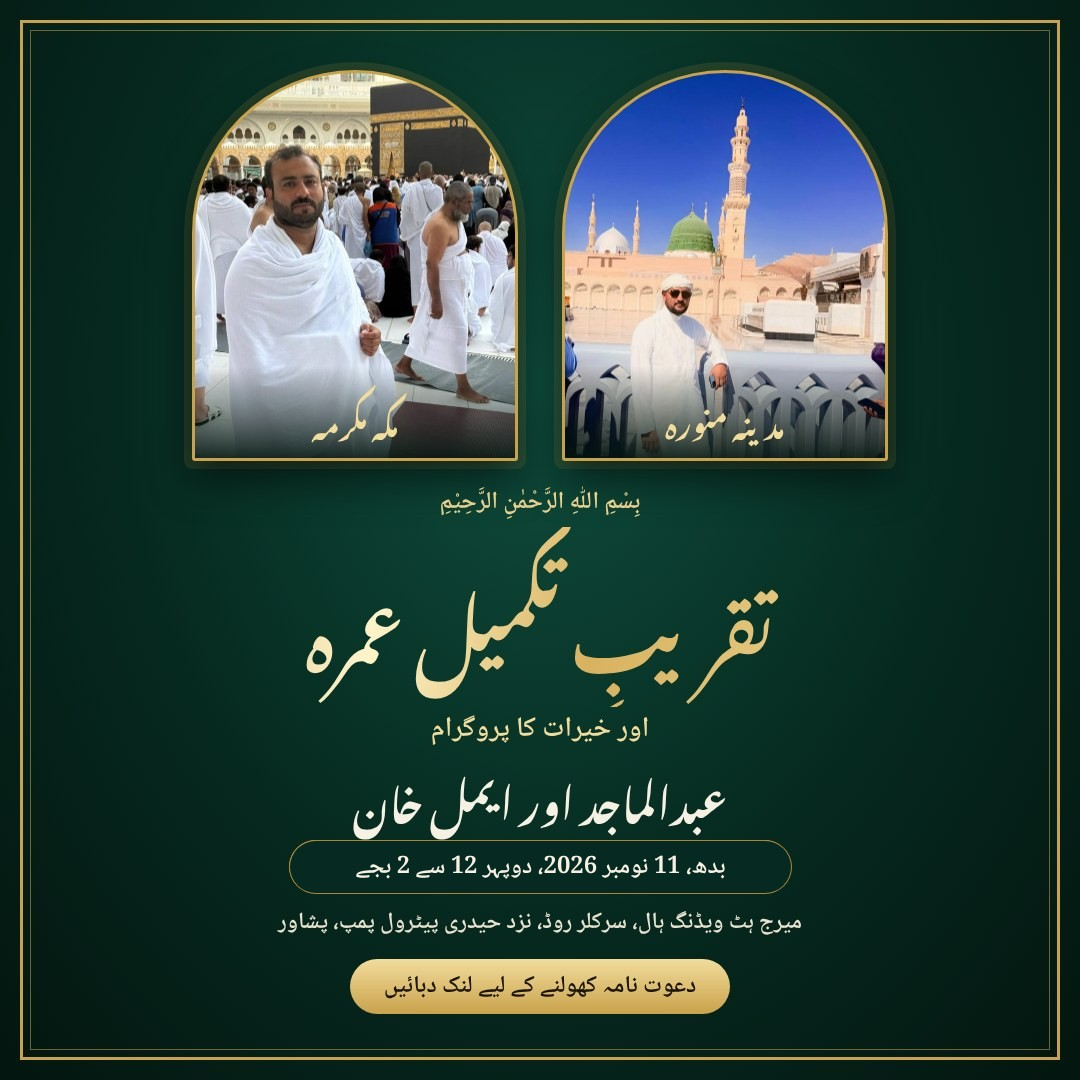
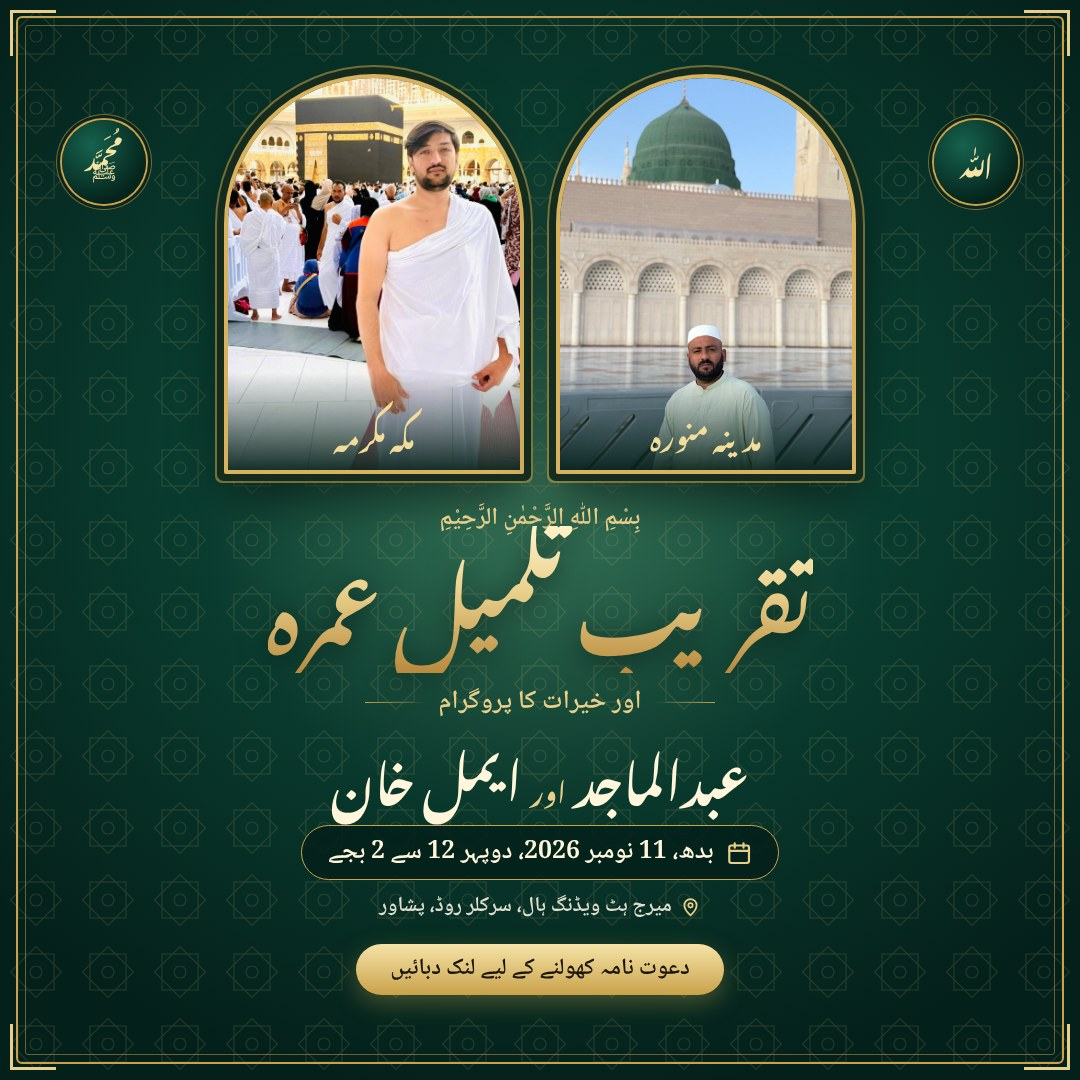
New link preview thumbnails (#7)
* UI polish: raise tiny text (dock labels, drag hint, footer) to 13px and improve hint contrast

Claude-Session: https://claude.ai/code/session_01PSUVtb5hPzZw6eqWCLbAgH

* Details upgrade: add English lines to date, time, venue, address and program; remove duplicated date/time row from location card

Claude-Session: https://claude.ai/code/session_01PSUVtb5hPzZw6eqWCLbAgH

* SEO and a11y upgrade: Event JSON-LD, canonical, og:locale, twitter tags; countdown as timer (no live-region spam); lang=en on English lines

Claude-Session: https://claude.ai/code/session_01PSUVtb5hPzZw6eqWCLbAgH

* Add UX profile, CLAUDE.md; no-JS fallback, press feedback, calendar reminders and description

Claude-Session: https://claude.ai/code/session_01PSUVtb5hPzZw6eqWCLbAgH

* Add full English version with language switch, Tailwind CSS pipeline, landscape/short-screen layout, offline support

- src/i18n.js: Urdu/English switch (text, labels, alt text, meta, WhatsApp text, copy/share text), ltr layout, remembered choice, ?lang=en
- Tailwind CSS 3 (prefix tw-, preflight off) compiled to src/tw.css and inlined by build.py; used for the new language button
- Short viewport rules for landscape phones, 320px fixes
- manifest + network-first service worker for offline opening

Claude-Session: https://claude.ai/code/session_01PSUVtb5hPzZw6eqWCLbAgH

* Stop Vercel from auto-running a build: rename npm scripts, add vercel.json for static serving
[…]

diff --git a/index.html b/index.html
@@ -8,27 +8,27 @@
 <meta property="og:title" content="تقریبِ تکمیلِ عمرہ کا دعوت نامہ">
 <meta property="og:description" content="بدھ 11 نومبر 2026، دوپہر 12 سے 2 بجے، میرج ہٹ ویڈنگ ہال، سرکلر روڈ، پشاور">
 <meta property="og:site_name" content="دعوت نامہ، Umrah Invitation">
-<meta property="og:image" content="https://umrah-psi.vercel.app/og.jpg?v=11nov">
-<meta property="og:image:secure_url" content="https://umrah-psi.vercel.app/og.jpg?v=11nov">
+<meta property="og:image" content="https://umrah-psi.vercel.app/og.jpg?v=11nov2">
+<meta property="og:image:secure_url" content="https://umrah-psi.vercel.app/og.jpg?v=11nov2">
 <meta property="og:image:type" content="image/jpeg">
 <meta property="og:image:width" content="1200"><meta property="og:image:height" content="630">
 <meta property="og:image:alt" content="تقریبِ تکمیلِ عمرہ کا دعوت نامہ">
-<meta property="og:image" content="https://umrah-psi.vercel.app/thumbnails/umrah-invite-square.jpg?v=11nov">
+<meta property="og:image" content="https://umrah-psi.vercel.app/thumbnails/umrah-invite-square.jpg?v=11nov2">
 <meta property="og:image:type" content="image/jpeg">
 <meta property="og:image:width" content="1080"><meta property="og:image:height" content="1080">
 <meta property="og:url" content="https://umrah-psi.vercel.app/">
 <meta name="twitter:card" content="summary_large_image">
 <meta name="twitter:title" content="تقریبِ تکمیلِ عمرہ کا دعوت نامہ">
-<meta name="twitter:image" content="https://umrah-psi.vercel.app/og.jpg?v=11nov">
+<meta name="twitter:image" content="https://umrah-psi.vercel.app/og.jpg?v=11nov2">
 <meta name="twitter:image:alt" content="تقریبِ تکمیلِ عمرہ کا دعوت نامہ">
-<link rel="image_src" href="https://umrah-psi.vercel.app/og.jpg?v=11nov">
+<link rel="image_src" href="https://umrah-psi.vercel.app/og.jpg?v=11nov2">
 <meta property="og:locale" content="ur_PK">
 <meta name="color-scheme" content="dark">
 <link rel="manifest" href="manifest.webmanifest">
 <link rel="apple-touch-icon" href="thumbnails/umrah-invite-square.jpg">
 <link rel="canonical" href="https://umrah-psi.vercel.app/">
 <noscript><style>#gate{display:none!important}body.locked{overflow:auto!important;height:auto!important;touch-action:auto!important}.reveal{opacity:1!important;transform:none!important}</style></noscript>
-<script type="application/ld+json">{"@context":"https://schema.org","@type":"Event","name":"تقریبِ تکمیلِ عمرہ (Umrah Completion Celebration)","description":"عمرہ کی تکمیل پر خیرات (دعوتِ طعام) کی تقریب۔","startDate":"2026-11-11T12:00:00+05:00","endDate":"2026-11-11T14:00:00+05:00","eventStatus":"https://schema.org/EventScheduled","eventAttendanceMode":"https://schema.org/OfflineEventAttendanceMode","inLanguage":"ur","image":"https://umrah-psi.vercel.app/og.jpg?v=11nov","location":{"@type":"Place","name":"Marriage Hut Wedding Hall","address":{"@type":"PostalAddress","streetAddress":"Circular Road, near Haidri Petrol Pump","addressLocality":"Peshawar","addressCountry":"PK"}}}</script>
+<script type="application/ld+json">{"@context":"https://schema.org","@type":"Event","name":"تقریبِ تکمیلِ عمرہ (Umrah Completion Celebration)","description":"عمرہ کی تکمیل پر خیرات (دعوتِ طعام) کی تقریب۔","startDate":"2026-11-11T12:00:00+05:00","endDate":"2026-11-11T14:00:00+05:00","eventStatus":"https://schema.org/EventScheduled","eventAttendanceMode":"https://schema.org/OfflineEventAttendanceMode","inLanguage":"ur","image":"https://umrah-psi.vercel.app/og.jpg?v=11nov2","location":{"@type":"Place","name":"Marriage Hut Wedding Hall","address":{"@type":"PostalAddress","streetAddress":"Circular Road, near Haidri Petrol Pump","addressLocality":"Peshawar","addressCountry":"PK"}}}</script>
 <meta name="theme-color" content="#04201A">
 <title>تقریبِ تکمیلِ عمرہ کا دعوت نامہ</title>
 <style>*,:after,:before{--tw-border-spacing-x:0;--tw-border-spacing-y:0;--tw-translate-x:0;--tw-translate-y:0;--tw-rotate:0;--tw-skew-x:0;--tw-skew-y:0;--tw-scale-x:1;--tw-scale-y:1;--tw-pan-x: ;--tw-pan-y: ;--tw-pinch-zoom: ;--tw-scroll-snap-strictness:proximity;--tw-gradient-from-position: ;--tw-gradient-via-position: ;--tw-gradient-to-position: ;--tw-ordinal: ;--tw-slashed-zero: ;--tw-numeric-figure: ;--tw-numeric-spacing: ;--tw-numeric-fraction: ;--tw-ring-inset: ;--tw-ring-offset-width:0px;--tw-ring-offset-color:#fff;--tw-ring-color:rgba(59,130,246,.5);--tw-ring-offset-shadow:0 0 #0000;--tw-ring-shadow:0 0 #0000;--tw-shadow:0 0 #0000;--tw-shadow-colored:0 0 #0000;--tw-blur: ;--tw-brightness: ;--tw-contrast: ;--tw-grayscale: ;--tw-hue-rotate: ;--tw-invert: ;--tw-saturate: ;--tw-sepia: ;--tw-drop-shadow: ;--tw-backdrop-blur: ;--tw-backdrop-brightness: ;--tw-backdrop-contrast: ;--tw-backdrop-grayscale: ;--tw-backdrop-hue-rotate: ;--tw-backdrop-invert: ;--tw-backdrop-opacity: ;--tw-backdrop-saturate: ;--tw-backdrop-sepia: ;--tw-contain-size: ;--tw-contain-layout: ;--tw-contain-paint: ;--tw-contain-style: }::backdrop{--tw-border-spacing-x:0;--tw-border-spacing-y:0;--tw-translate-x:0;--tw-translate-y:0;--tw-rotate:0;--tw-skew-x:0;--tw-skew-y:0;--tw-scale-x:1;--tw-scale-y:1;--tw-pan-x: ;--tw-pan-y: ;--tw-pinch-zoom: ;--tw-scroll-snap-strictness:proximity;--tw-gradient-from-position: ;--tw-gradient-via-position: ;--tw-gradient-to-position: ;--tw-ordinal: ;--tw-slashed-zero: ;--tw-numeric-figure: ;--tw-numeric-spacing: ;--tw-numeric-fraction: ;--tw-ring-inset: ;--tw-ring-offset-width:0px;--tw-ring-offset-color:#fff;--tw-ring-color:rgba(59,130,246,.5);--tw-ring-offset-shadow:0 0 #0000;--tw-ring-shadow:0 0 #0000;--tw-shadow:0 0 #0000;--tw-shadow-colored:0 0 #0000;--tw-blur: ;--tw-brightness: ;--tw-contrast: ;--tw-grayscale: ;--tw-hue-rotate: ;--tw-invert: ;--tw-saturate: ;--tw-sepia: ;--tw-drop-shadow: ;--tw-backdrop-blur: ;--tw-backdrop-brightness: ;--tw-backdrop-contrast: ;--tw-backdrop-grayscale: ;--tw-backdrop-hue-rotate: ;--tw-backdrop-invert: ;--tw-backdrop-opacity: ;--tw-backdrop-saturate: ;--tw-backdrop-sepia: ;--tw-contain-size: ;--tw-contain-layout: ;--tw-contain-paint: ;--tw-contain-style: }.tw-sr-only{position:absolute;width:1px;height:1px;padding:0;margin:-1px;overflow:hidden;clip:rect(0,0,0,0);white-space:nowrap;border-width:0}.tw-fixed{position:fixed}.tw-end-3{inset-inline-end:.75rem}.tw-top-2\.5{top:.625rem}.tw-z-\[60\]{z-index:60}.tw-m-0{margin:0}.tw-mx-auto{margin-left:auto;margin-right:auto}.tw-mb-0{margin-bottom:0}.tw-mb-1{margin-bottom:.25rem}.tw-mb-3{margin-bottom:.75rem}.tw-mb-6{margin-bottom:1.5rem}.tw-mt-0{margin-top:0}.tw-mt-1{margin-top:.25rem}.tw-mt-2{margin-top:.5rem}.tw-mt-3{margin-top:.75rem}.tw-mt-4{margin-top:1rem}.tw-mt-8{margin-top:2rem}.tw-block{display:block}.tw-flex{display:flex}.tw-inline-flex{display:inline-flex}.tw-grid{display:grid}.tw-min-h-\[44px\]{min-height:44px}.tw-min-h-\[48px\]{min-height:48px}.tw-w-full{width:100%}.tw-max-w-3xl{max-width:48rem}.tw-cursor-pointer{cursor:pointer}.tw-grid-cols-2{grid-template-columns:repeat(2,minmax(0,1fr))}.tw-flex-wrap{flex-wrap:wrap}.tw-items-end{align-items:flex-end}.tw-items-center{align-items:center}.tw-justify-between{justify-content:space-between}.tw-gap-2{gap:.5rem}.tw-gap-3{gap:.75rem}.tw-overflow-x-auto{overflow-x:auto}.tw-rounded-2xl{border-radius:1rem}.tw-rounded-full{border-radius:9999px}.tw-rounded-xl{border-radius:.75rem}.tw-border{border-width:1px}.tw-border-0{border-width:0}.tw-border-\[\#F0A6A0\]\/60{border-color:hsla(5,73%,78%,.6)}.tw-border-gold\/30{border-color:rgba(201,162,75,.3)}.tw-border-gold\/40{border-color:rgba(201,162,75,.4)}.tw-border-gold\/60{border-color:rgba(201,162,75,.6)}.tw-border-gold\/70{border-color:rgba(201,162,75,.7)}.tw-bg-\[\#7A1F2B\]\/30{background-color:rgba(122,31,43,.3)}.tw-bg-em\/30{background-color:rgba(14,75,59,.3)}.tw-bg-em\/40{background-color:rgba(14,75,59,.4)}.tw-bg-gold2{--tw-bg-opacity:1;background-color:rgb(233 207 139/var(--tw-bg-opacity,1))}.tw-bg-night{--tw-bg-opacity:1;background-color:rgb(4 32 26/var(--tw-bg-opacity,1))}.tw-bg-night\/90{background-color:rgba(4,32,26,.9)}.tw-bg-transparent{background-color:transparent}.tw-p-4{padding:1rem}.tw-p-5{padding:1.25rem}.tw-px-3{padding-left:.75rem;padding-right:.75rem}.tw-px-4{padding-left:1rem;padding-right:1rem}.tw-pb-16{padding-bottom:4rem}.tw-pt-8{padding-top:2rem}.tw-font-naskh{font-family:Naskh,serif}.tw-text-3xl{font-size:1.875rem;line-height:2.25rem}.tw-text-base{font-size:1rem;line-height:1.5rem}.tw-text-sm{font-size:.875rem;line-height:1.25rem}.tw-text-xl{font-size:1.25rem;line-height:1.75rem}.tw-font-semibold{font-weight:600}.tw-leading-relaxed{line-height:1.625}.tw-text-\[\#FFC9C2\]{--tw-text-opacity:1;color:rgb(255 201 194/var(--tw-text-opacity,1))}.tw-text-gold2{--tw-text-opacity:1;color:rgb(233 207 139/var(--tw-text-opacity,1))}.tw-text-ivory{--tw-text-opacity:1;color:rgb(247 241 227/var(--tw-text-opacity,1))}.tw-text-ivory\/70{color:hsla(42,56%,93%,.7)}.tw-text-ivory\/75{color:hsla(42,56%,93%,.75)}.tw-text-ivory\/80{color:hsla(42,56%,93%,.8)}.tw-text-night{--tw-text-opacity:1;color:rgb(4 32 26/var(--tw-text-opacity,1))}.tw-shadow-lg{--tw-shadow:0 10px 15px -3px rgba(0,0,0,.1),0 4px 6px -4px rgba(0,0,0,.1);--tw-shadow-colored:0 10px 15px -3px var(--tw-shadow-color),0 4px 6px -4px var(--tw-shadow-color);box-shadow:var(--tw-ring-offset-shadow,0 0 #0000),var(--tw-ring-shadow,0 0 #0000),var(--tw-shadow)}.tw-shadow-black\/40{--tw-shadow-color:rgba(0,0,0,.4);--tw-shadow:var(--tw-shadow-colored)}.tw-transition{transition-property:color,background-color,border-color,text-decoration-color,fill,stroke,opacity,box-shadow,transform,filter,-webkit-backdrop-filter;transition-property:color,background-color,border-color,text-decoration-color,fill,stroke,opacity,box-shadow,transform,filter,backdrop-filter;transition-property:color,background-color,border-color,text-decoration-color,fill,stroke,opacity,box-shadow,transform,filter,backdrop-filter,-webkit-backdrop-filter;transition-timing-function:cubic-bezier(.4,0,.2,1);transition-duration:.15s}.hover\:tw-bg-em:hover{--tw-bg-opacity:1;background-color:rgb(14 75 59/var(--tw-bg-opacity,1))}.focus-visible\:tw-outline:focus-visible{outline-style:solid}.focus-visible\:tw-outline-2:focus-visible{outline-width:2px}.focus-visible\:tw-outline-offset-2:focus-visible{outline-offset:2px}.focus-visible\:tw-outline-white:focus-visible{outline-color:#fff}.active\:tw-scale-95:active{--tw-scale-x:.95;--tw-scale-y:.95;transform:translate(var(--tw-translate-x),var(--tw-translate-y)) rotate(var(--tw-rotate)) skewX(var(--tw-skew-x)) skewY(var(--tw-skew-y)) scaleX(var(--tw-scale-x)) scaleY(var(--tw-scale-y))}@media (min-width:640px){.sm\:tw-grid-cols-4{grid-template-columns:repeat(4,minmax(0,1fr))}}</style>

diff --git a/src/template.html b/src/template.html
@@ -8,27 +8,27 @@
 <meta property="og:title" content="تقریبِ تکمیلِ عمرہ کا دعوت نامہ">
 <meta property="og:description" content="بدھ 11 نومبر 2026، دوپہر 12 سے 2 بجے، میرج ہٹ ویڈنگ ہال، سرکلر روڈ، پشاور">
 <meta property="og:site_name" content="دعوت نامہ، Umrah Invitation">
-<meta property="og:image" content="{{SITE}}/og.jpg?v=11nov">
-<meta property="og:image:secure_url" content="{{SITE}}/og.jpg?v=11nov">
+<meta property="og:image" content="{{SITE}}/og.jpg?v=11nov2">
+<meta property="og:image:secure_url" content="{{SITE}}/og.jpg?v=11nov2">
 <meta property="og:image:type" content="image/jpeg">
 <meta property="og:image:width" content="1200"><meta property="og:image:height" content="630">
 <meta property="og:image:alt" content="تقریبِ تکمیلِ عمرہ کا دعوت نامہ">
-<meta property="og:image" content="{{SITE}}/thumbnails/umrah-invite-square.jpg?v=11nov">
+<meta property="og:image" content="{{SITE}}/thumbnails/umrah-invite-square.jpg?v=11nov2">
 <meta property="og:image:type" content="image/jpeg">
 <meta property="og:image:width" content="1080"><meta property="og:image:height" content="1080">
 <meta property="og:url" content="{{SITE}}/">
 <meta name="twitter:card" content="summary_large_image">
 <meta name="twitter:title" content="تقریبِ تکمیلِ عمرہ کا دعوت نامہ">
-<meta name="twitter:image" content="{{SITE}}/og.jpg?v=11nov">
+<meta name="twitter:image" content="{{SITE}}/og.jpg?v=11nov2">
 <meta name="twitter:image:alt" content="تقریبِ تکمیلِ عمرہ کا دعوت نامہ">
-<link rel="image_src" href="{{SITE}}/og.jpg?v=11nov">
+<link rel="image_src" href="{{SITE}}/og.jpg?v=11nov2">
 <meta property="og:locale" content="ur_PK">
 <meta name="color-scheme" content="dark">
 <link rel="manifest" href="manifest.webmanifest">
 <link rel="apple-touch-icon" href="thumbnails/umrah-invite-square.jpg">
 <link rel="canonical" href="{{SITE}}/">
 <noscript><style>#gate{display:none!important}body.locked{overflow:auto!important;height:auto!important;touch-action:auto!important}.reveal{opacity:1!important;transform:none!important}</style></noscript>
-<script type="application/ld+json">{"@context":"https://schema.org","@type":"Event","name":"تقریبِ تکمیلِ عمرہ (Umrah Completion Celebration)","description":"عمرہ کی تکمیل پر خیرات (دعوتِ طعام) کی تقریب۔","startDate":"2026-11-11T12:00:00+05:00","endDate":"2026-11-11T14:00:00+05:00","eventStatus":"https://schema.org/EventScheduled","eventAttendanceMode":"https://schema.org/OfflineEventAttendanceMode","inLanguage":"ur","image":"{{SITE}}/og.jpg?v=11nov","location":{"@type":"Place","name":"Marriage Hut Wedding Hall","address":{"@type":"PostalAddress","streetAddress":"Circular Road, near Haidri Petrol Pump","addressLocality":"Peshawar","addressCountry":"PK"}}}</script>
+<script type="application/ld+json">{"@context":"https://schema.org","@type":"Event","name":"تقریبِ تکمیلِ عمرہ (Umrah Completion Celebration)","description":"عمرہ کی تکمیل پر خیرات (دعوتِ طعام) کی تقریب۔","startDate":"2026-11-11T12:00:00+05:00","endDate":"2026-11-11T14:00:00+05:00","eventStatus":"https://schema.org/EventScheduled","eventAttendanceMode":"https://schema.org/OfflineEventAttendanceMode","inLanguage":"ur","image":"{{SITE}}/og.jpg?v=11nov2","location":{"@type":"Place","name":"Marriage Hut Wedding Hall","address":{"@type":"PostalAddress","streetAddress":"Circular Road, near Haidri Petrol Pump","addressLocality":"Peshawar","addressCountry":"PK"}}}</script>
 <meta name="theme-color" content="#04201A">
 <title>تقریبِ تکمیلِ عمرہ کا دعوت نامہ</title>
 <style>{{TW}}</style>
